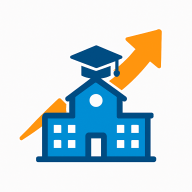
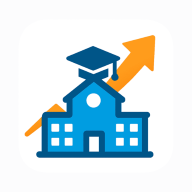
ff

Changed region(s): [[0.0938, 0.125, 0.8438, 0.875]]

diff --git a/service-worker-assets.js b/service-worker-assets.js
@@ -1,5 +1,5 @@
 self.assetsManifest = {
-  "version": "52bFUkfY",
+  "version": "Nu8IsSaJ",
   "assets": [
     {
       "hash": "sha256-K6H605SwOEr3R3vgg5BLg/8rvobE7NZZsn9QX6fUtco=",
@@ -238,11 +238,11 @@ self.assetsManifest = {
       "url": "favicon.png"
     },
     {
-      "hash": "sha256-Q8443h3eaZTuKBPInbi8bBhC/v4UK6z65RFEhCZu0Ys=",
+      "hash": "sha256-vCuda+hZ+vO3dRB2IXScC8koOgHzSNLT7W55osssqkc=",
       "url": "icon100_v192.png"
     },
     {
-      "hash": "sha256-Gv0qdCsyKlWFyD91HBfUqYj6hQc/A0QoCXfj5Ij0V9Y=",
+      "hash": "sha256-Qv5quiVv2LkLnq2FD8YbWkgvrHk0cnN1JFlVZHOy4b8=",
       "url": "icon100_v512.png"
     },
     {

diff --git a/service-worker.js b/service-worker.js
@@ -1,4 +1,4 @@
-/* Manifest version: 52bFUkfY */
+/* Manifest version: Nu8IsSaJ */
 // ⚠ 提醒：若要正式部署 PWA，請先了解相關離線快取的注意事項。
 // 文件參考：https://aka.ms/blazor-offline-considerations
 
